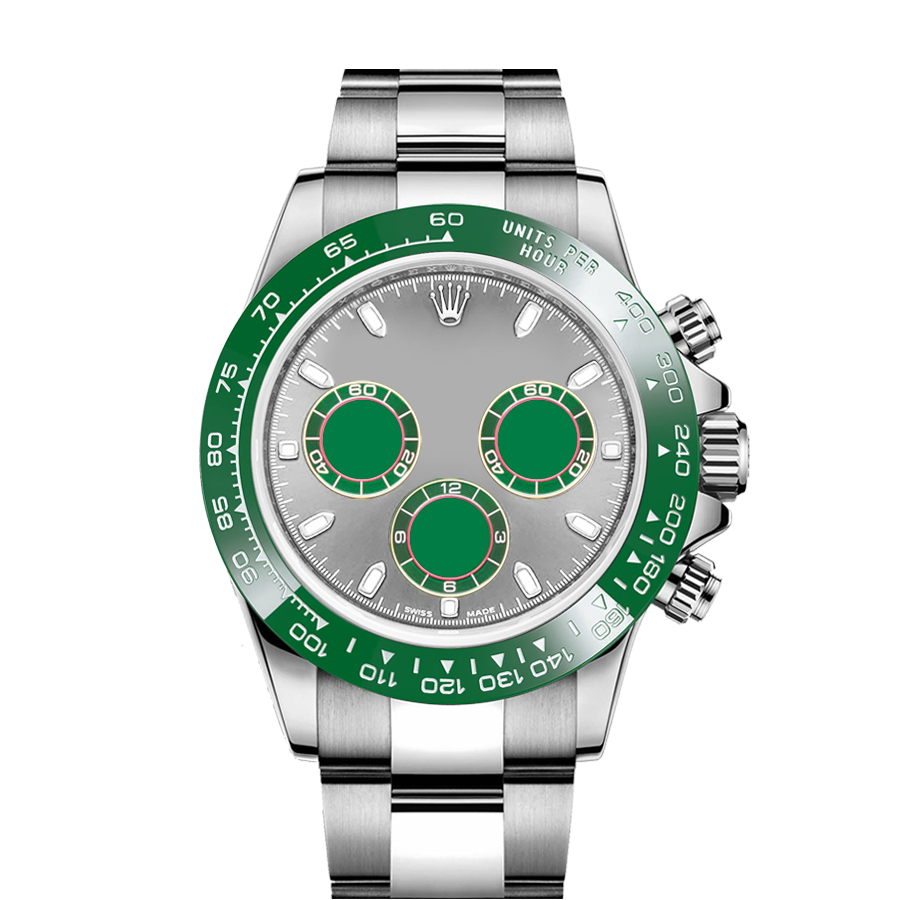
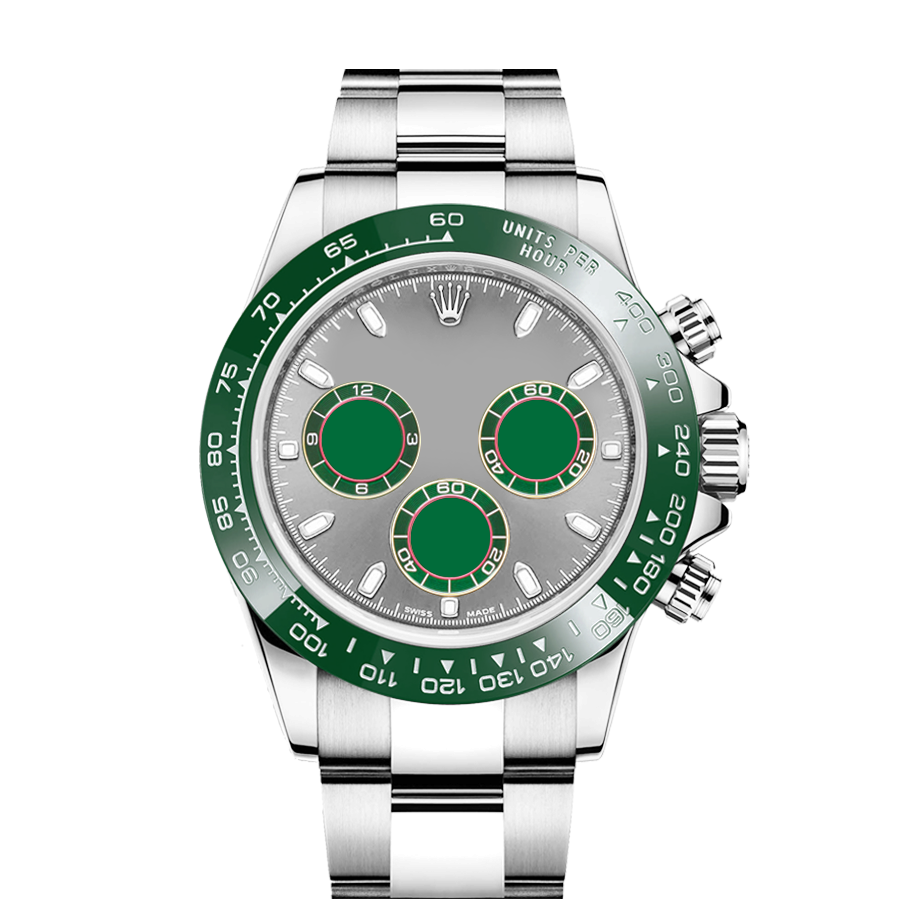
feat: add pie charts layout, style and function

diff --git a/js-clock/script.js b/js-clock/script.js
@@ -6,6 +6,9 @@ function clock() {
   const dayWindow = document.querySelector('.rect');
   const dateWindow = document.querySelector('.digital-date');
   const timeWindow = document.querySelector('.digital-time');
+  const roundSecond = document.querySelector('.round-second span');
+  const roundMinute = document.querySelector('.round-minute span');
+  const roundHour = document.querySelector('.round-hour span');
 
   const days = ["Sunday", "Monday", "Tuesday", "Wednesday", "Thursday", "Friday", "Saturday"];
   const months = ["Jan", "Feb", "Mar", "Apr", "May", "Jun", "Jul", "Aug", "Sep", "Oct", "Nov", "Dec"];
@@ -19,25 +22,53 @@ function clock() {
     const hours = time.getHours();
     const minutes = time.getMinutes();
     const seconds = time.getSeconds();
+
+    const digitalTime = time.toLocaleTimeString('en-US');
+
     const hoursDegrees = ((hours / 12) * 360) + ((minutes/60)*30)
     const minutesDegrees = ((minutes / 60) * 360) + 0.3;
     const secondsDegrees = ((seconds / 60) * 360) + 0.4;
-    const digitalTime = time.toLocaleTimeString('en-US');
+
+    const circleSecond = document.querySelector('.progress-circle_second');
+    const circleMinute = document.querySelector('.progress-circle_minute');
+    const circleHour = document.querySelector('.progress-circle_hour');
+
+    const secondPercent = (seconds * 100) / 60;
+    const minutePercent = (minutes * 100) / 60;
+    const hourPercent = (((hours + 24) % 12 || 12) * 100) / 12;
+
     seconds == 0 ? needle.style.transition = 'none': needle.style.transition = 'all 0.5s';
+
+    dayWindow.innerHTML = `${date}`;
+    timeWindow.innerHTML = digitalTime;
+    dateWindow.innerHTML = `${days[day]} | ${months[month]} | ${year}`;
+    roundSecond.textContent = `${seconds}`;
+    roundMinute.textContent = `${minutes}`;
+    roundHour.textContent = `${hours}`;
 
     styleTransform(hourNeedle, hoursDegrees);
     styleTransform(minuteNeedle, minutesDegrees);
     styleTransform(secondNeedle, secondsDegrees);
 
-    dayWindow.innerHTML = `${date}`;
-    timeWindow.innerHTML = digitalTime;
-    dateWindow.innerHTML = `${days[day]} | ${months[month]} | ${year}`;
+    setProgress(secondPercent, circleSecond);
+    setProgress(minutePercent, circleMinute);
+    setProgress(hourPercent, circleHour);
   }
 
   function styleTransform(list, exp) {
     list.forEach(el => {
       el.style.transform = `translate(-50%, -100%) rotate(${exp}deg)`;
     })
+  }
+
+  function setProgress(percent, circle) {
+    const radius = circle.r.baseVal.value;
+    const circumference = 2 * Math.PI * radius;
+    const offset = circumference - percent / 100 * circumference;
+
+    circle.style.strokeDasharray = `${circumference} ${circumference}`;
+    circle.style.strokeDashoffset = circumference;
+    circle.style.strokeDashoffset = offset;
   }
 
   setInterval(setClock, 1000);

diff --git a/js-clock/style.css b/js-clock/style.css
@@ -10,6 +10,7 @@
 
 html {
   box-sizing: border-box;
+  font-family: 'EB Garamond', serif;
 }
 
 .clock-one.silver {
@@ -88,12 +89,12 @@ img {
 }
 
 .clock-one {
-  display: flex;
+  display: none;
   background-image: url('./img/gold-blue.png');
 }
 
 .clock-two {
-  display: none;
+  display: flex;
   background-image: url('./img/green-silver.png');
 }
 
@@ -109,7 +110,6 @@ img {
 .logo-box {
   position: absolute;
   top: 31%;
-  font-family: 'EB Garamond', serif;
   font-size: 20px;
   color: var(--dial-color);
   text-transform: uppercase;
@@ -464,4 +464,54 @@ img {
   width: 100%;
   padding: 40px 0;
   z-index: 1;
+}
+
+.round {
+  position: absolute;
+  display: flex;
+  justify-content: center;
+  align-items: center;
+  width: 75px;
+  height: 75px;
+  font-size: 40px;
+  color: var(--secondary-color);
+}
+
+.round-hour {
+  top: 39%;
+  left: 22.2%;
+}
+
+.round-minute {
+  top: 39%;
+  left: 61%;
+}
+
+.round-second {
+  top: 61%;
+  left: 42%;
+}
+
+.progress-ring {
+  position: absolute;
+  margin-right: 2px;
+  margin-top: 1px;
+  fill: transparent;
+  stroke-width: 15;
+  stroke: rgba(192,192,192, 0.8);
+}
+
+/* .progress-ring_second {
+  stroke: rgba(250,226,50, 0.4);
+}
+.progress-ring_minute {
+  stroke: rgba(114,87,250, 0.4);
+}
+.progress-ring_hour {
+  stroke: rgba(250,67,37, 0.4);
+} */
+
+.progress-circle {
+  transform-origin: center;
+  transform: rotate(-90deg);
 }

diff --git a/js-clock/index.html b/js-clock/index.html
@@ -59,6 +59,24 @@
           <div class="needle second second-silver"></div>
           <div class="needle minute minute-silver"></div>
           <div class="needle hour hour-silver"></div>
+          <div class="round round-second">
+            <span></span>
+            <svg class="progress-ring progress-ring_second" width="120" height="120">
+              <circle class="progress-circle progress-circle_second" cx="60" cy="60" r="50"/>
+            </svg>
+          </div>
+          <div class="round round-minute">
+            <span></span>
+            <svg class="progress-ring progress-ring_minute" width="120" height="120">
+              <circle class="progress-circle progress-circle_minute" cx="60" cy="60" r="50"/>
+            </svg>
+          </div>
+          <div class="round round-hour">
+            <span></span>
+            <svg class="progress-ring progress-ring_hour" width="120" height="120">
+              <circle class="progress-circle progress-circle_hour" cx="60" cy="60" r="50"/>
+            </svg>
+          </div>
         </div>
       </div>
     </div>
